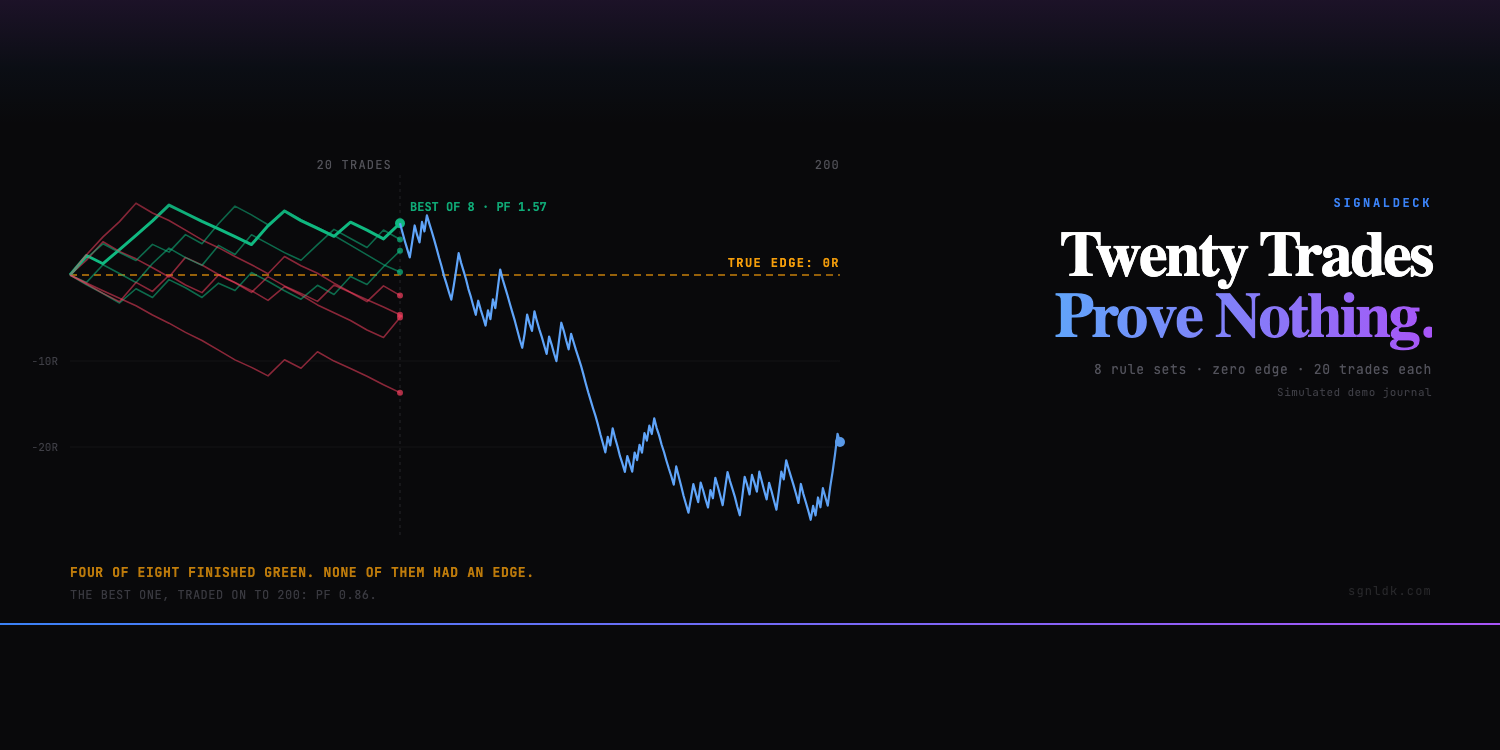
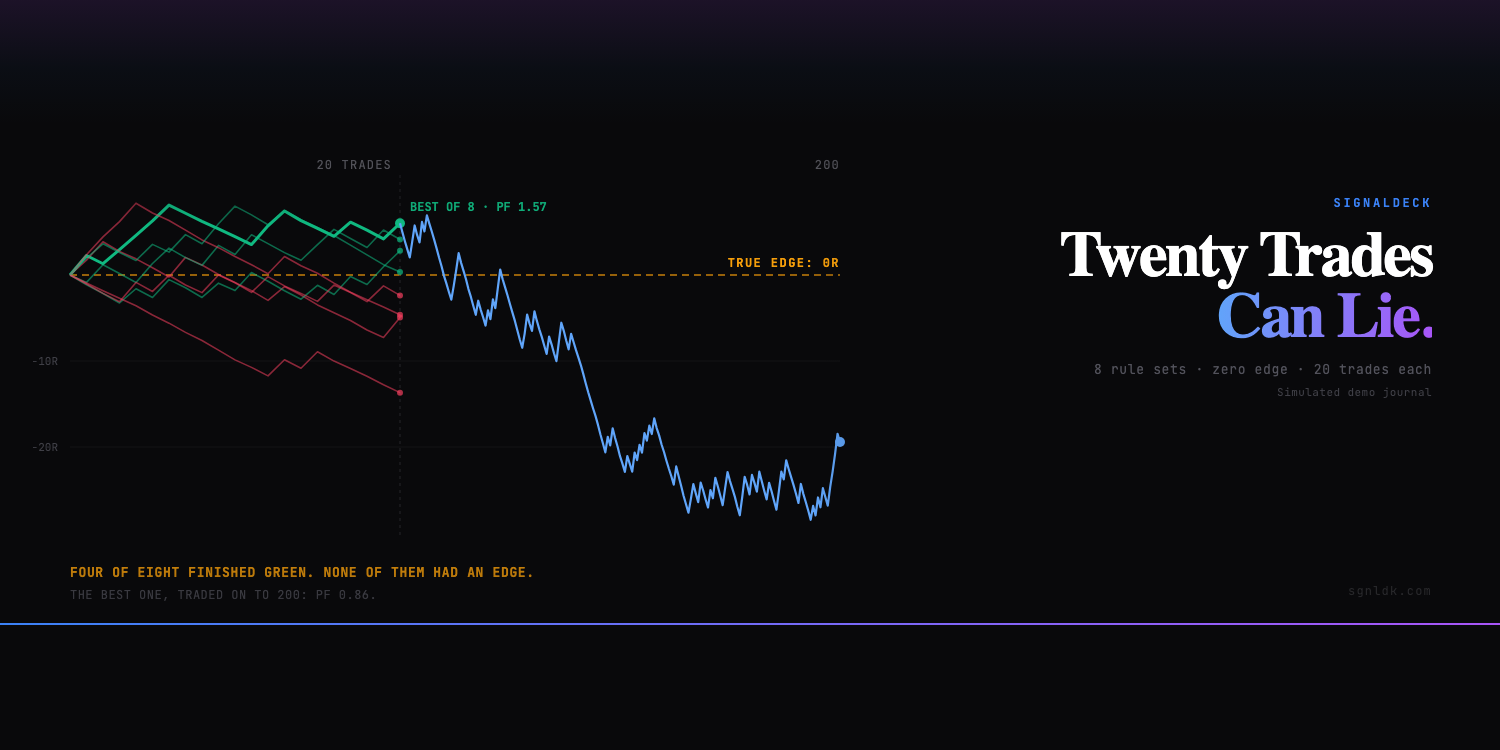
blog: how-many-trades-to-trust-a-strategy - Codex review fixes (2 blockers, 8 should-fix)
Power column for the trades-needed table, post-selection caveat on Rule Set A's ranges,
2-SE endpoints, independence assumption, SQN qualification, softened 343-trade verdict,
model-scoped frequencies, ~$250 risk wording, CTA R claim, banner 'Can Lie'.

Changed region(s): [[0.7053, 0.368, 0.9507, 0.46]]

diff --git a/blog/how-many-trades-to-trust-a-strategy/index.html b/blog/how-many-trades-to-trust-a-strategy/index.html
@@ -77,7 +77,7 @@
             "name": "How many trades do I need to know if my trading strategy works?",
             "acceptedAnswer": {
                 "@type": "Answer",
-                "text": "It depends on how big your edge is and how much your trades vary. Roughly, N = (2 x standard deviation of R / average R) squared. For a system with a 1R stop and a 2R target (standard deviation about 1.4R), showing a +0.5R edge takes about 30 trades, +0.3R about 90, +0.2R about 200 and +0.1R about 780. Systems with bigger, rarer winners need more."
+                "text": "It depends on how big your edge is and how much your trades vary. For a system with a 1R stop and a 2R target (standard deviation about 1.4R), a strategy delivering exactly a +0.5R edge clears zero by two standard errors at about 30 trades, +0.3R at about 90, +0.2R at about 200 and +0.1R at about 780. Those are minimums: to catch a real edge about four times in five takes roughly twice as many (about 60, 170, 390 and 1,540). Systems with bigger, rarer winners usually need more."
             }
         },
         {
@@ -85,7 +85,7 @@
             "name": "Is 30 trades enough to judge a strategy?",
             "acceptedAnswer": {
                 "@type": "Answer",
-                "text": "Only if the edge is exceptional, around +0.5R a trade or more. In our test, four of eight strategies with zero edge were in profit after 20 trades, and the best showed a profit factor of 1.57. Under 30 trades, treat every statistic as a rumour."
+                "text": "Only if the edge is exceptional, around +0.5R a trade or more, and even then 30 trades catches it only about half the time. In our test, four of eight strategies with zero edge were in profit after 20 trades, and the best showed a profit factor of 1.57. Under 30 trades, treat every statistic as a rumour."
             }
         },
         {
@@ -93,7 +93,7 @@
             "name": "How do I calculate a confidence interval for my trading expectancy?",
             "acceptedAnswer": {
                 "@type": "Answer",
-                "text": "Put your R-multiples in a column. The 95% range is the average R plus or minus 2 x STDEV(R) / SQRT(COUNT(R)). If the range includes zero, you have not shown an edge yet. A 20-trade strategy averaging +0.30R with a standard deviation of 1.43R has a range of about -0.32R to +0.93R."
+                "text": "Put your R-multiples in a column. A rough 95% range is the average R plus or minus 2 x STDEV(R) / SQRT(COUNT(R)). If the range includes zero, you have not shown an edge yet. A 20-trade strategy averaging +0.30R with a standard deviation of 1.43R has a range of about -0.34R to +0.94R. The range assumes independent trades from an unchanged strategy, and it is too optimistic if you picked this strategy as the best of several."
             }
         },
         {
@@ -101,7 +101,7 @@
             "name": "Why does a strategy look great at first and then stop working?",
             "acceptedAnswer": {
                 "@type": "Answer",
-                "text": "Often it never worked. If you try several setups and keep the best-looking one, chance alone makes the best one look good. In 20,000 simulated runs of eight zero-edge strategies at 20 trades each, the best one had a profit factor of 1.5 or more 81% of the time. Traded on, it drifts back to its true edge."
+                "text": "Often it never worked. If you try several setups and keep the best-looking one, chance alone makes the best one look good. In our simulation of eight independent zero-edge strategies at 20 trades each, run 20,000 times, the best one had a profit factor of 1.5 or more 81% of the time. Traded on, it drifts back to its true edge."
             }
         },
         {
@@ -109,7 +109,7 @@
             "name": "Does SignalDeck warn about small sample sizes?",
             "acceptedAnswer": {
                 "@type": "Answer",
-                "text": "Partly. Every strategy card shows its trade count, and the Sharpe ratio is hidden below 10 closed trades or when results are too uniform for it to mean anything. Net P&L, profit factor, expectancy and win rate show on any sample, and there is no confidence range next to them yet, so read the trade count first."
+                "text": "Partly. Every strategy card shows its trade count, and the Sharpe ratio is hidden below 10 closed trades or when results are too uniform for it to mean anything. Net P&L, profit factor and win rate show on any sample, and there is no confidence range next to them yet, so read the trade count first."
             }
         }
     ]
@@ -214,13 +214,13 @@
         <div class="max-w-3xl mx-auto px-4">
 
             <h2 class="text-2xl font-bold text-white mt-12 mb-4">Eight Strategies, Zero Edge, 20 Trades Each</h2>
-            <p class="text-zinc-300 leading-relaxed mb-6">Every trade risks $250, or 1R. One in three trades wins between 1.6R and 2.4R, averaging +2R. The other two lose between 0.85R and 1.15R, averaging &minus;1R. That works out to (1/3 &times; 2) &minus; (2/3 &times; 1) = 0R per trade. This is a strategy that can never make money over time, and we gave it eight different names. We drew 20 trades for each one, logged them in a SignalDeck demo account, and opened the Strategy Performance screen.</p>
+            <p class="text-zinc-300 leading-relaxed mb-6">Every trade is measured against 1R of planned risk, about $250 in the demo account (whole-share sizing makes it vary by a few dollars). One in three trades wins between 1.6R and 2.4R, averaging +2R. The other two lose between 0.85R and 1.15R, averaging &minus;1R. That works out to (1/3 &times; 2) &minus; (2/3 &times; 1) = 0R per trade. This strategy has no positive expected return, though any finite run of it can finish up or down. We gave it eight different names. We drew 20 trades for each one, logged them in a SignalDeck demo account, and opened the Strategy Performance screen.</p>
             <figure class="my-8">
                 <a href="../../assets/screenshot-samplesize-grid-20.webp" target="_blank" rel="noopener" aria-label="Open full-size screenshot"><img src="../../assets/screenshot-samplesize-grid-20.webp" width="2512" height="1482" loading="lazy" decoding="async" alt="SignalDeck's Strategy Performance screen with eight cards, Rule Set A to Rule Set H, 20 trades each. A: net +$1,492, Sharpe 1.87, max drawdown -$1,149, profit factor 1.57. B: -$1,219, Sharpe -1.59, PF 0.68. C: +$1,019, Sharpe 1.19, PF 1.33. D: +$719, Sharpe 0.84, PF 1.23. E: -$3,418, Sharpe -6.79, PF 0.22. F: -$611, Sharpe -0.75, PF 0.83. G: -$1,179, Sharpe -1.50, PF 0.69. H: +$77, Sharpe 0.10, PF 1.02." class="w-full h-auto rounded-xl border border-zinc-800"></a>
                 <figcaption class="text-xs text-zinc-500 mt-2 text-center">Eight cards, one distribution. None of these has an edge.</figcaption>
             </figure>
             <p class="text-zinc-300 leading-relaxed mb-6">If you didn&rsquo;t know where these came from, you would read this screen as four working strategies and four broken ones. Rule Set A looks ready for more size. Rule Set E, at &minus;$3,418 and a Sharpe of &minus;6.79, looks like it should be deleted today. Both are the same strategy. E is not broken, and A is not working. E drew two winners in twenty, A drew nine, and that is all that separates them.</p>
-            <p class="text-zinc-300 leading-relaxed mb-6">This is the problem with reading performance stats on a small sample. Every number on a card can look sure of itself, but at 20 trades none of them can tell an edge from luck.</p>
+            <p class="text-zinc-300 leading-relaxed mb-6">This is the problem with reading performance stats on a small sample. Every number on a card can look sure of itself, but for a system like this one, 20 trades can&rsquo;t tell an edge from luck.</p>
 
             <h2 class="text-2xl font-bold text-white mt-12 mb-4">We Kept Trading the Winner</h2>
             <p class="text-zinc-300 leading-relaxed mb-6">Picking the best-looking strategy and trading more of it is what most of us would do next, so we did it. Here is Rule Set A after its first 20 trades:</p>
@@ -242,7 +242,7 @@
                 <li><strong class="text-white">One strategy on its own</strong> showed a profit factor of 1.5 or better after 20 trades <strong class="text-white">19% of the time</strong>. About one in five tries at a no-edge idea looks good enough to keep.</li>
                 <li><strong class="text-white">The best of eight</strong> reached a profit factor of 1.5 or better <strong class="text-white">81% of the time</strong>, and 2.0 or better 42% of the time. The median best-of-eight had a profit factor of 1.92 and an expectancy of +0.47R a trade.</li>
             </ul>
-            <p class="text-zinc-300 leading-relaxed mb-6">So our Rule Set A, at 1.57, was a mild result. If you try eight setups and keep the best one, the usual outcome is a profit factor near 2 from a strategy with no edge at all. The more ideas you test, the better the best one will look by chance alone. That is why the number of things you tried matters as much as how good the winner looks.</p>
+            <p class="text-zinc-300 leading-relaxed mb-6">So our Rule Set A, at 1.57, was a mild result. In this simulation, trying eight independent zero-edge setups and keeping the best one usually produced a profit factor near 2. Real setups are often correlated, which shrinks that effect, but it never makes it go away. The more ideas you test, the better the best one will look by chance alone. That is why the number of things you tried matters as much as how good the winner looks.</p>
 
             <h2 class="text-2xl font-bold text-white mt-12 mb-4">The One Formula That Answers the Question</h2>
             <p class="text-zinc-300 leading-relaxed mb-6">Measure every trade in <a href="../what-is-r-multiple/" class="text-blue-400 hover:text-blue-300 transition-colors">R-multiples</a>. Your <a href="../trading-expectancy/" class="text-blue-400 hover:text-blue-300 transition-colors">expectancy</a> is the average R. How far you can trust that average depends on two things: how much your trades vary, and how many you have.</p>
@@ -250,24 +250,25 @@
                 standard error = StdDev(R) &divide; &radic;N<br>
                 95% range &asymp; average R &plusmn; 2 &times; standard error
             </div>
-            <p class="text-zinc-300 leading-relaxed mb-6">In a spreadsheet with your R-multiples in column R, that is <code class="text-blue-300 bg-zinc-900 px-1 rounded">=AVERAGE(R:R)</code> plus or minus <code class="text-blue-300 bg-zinc-900 px-1 rounded">=2*STDEV(R:R)/SQRT(COUNT(R:R))</code>. If the range includes zero, you haven&rsquo;t shown an edge yet.</p>
-            <p class="text-zinc-300 leading-relaxed mb-6">Rule Set A at 20 trades averaged +0.30R with a standard deviation of 1.43R. The standard error is 1.43 &divide; &radic;20 = 0.32R, so the 95% range runs from about <strong class="text-white">&minus;0.32R to +0.93R a trade</strong>. That covers zero, a decent edge and a spectacular one. At 200 trades the range narrows to about <strong class="text-white">&minus;0.29R to +0.09R</strong>, which still includes zero (the true answer) and now rules out the big edge the first 20 trades seemed to show.</p>
-            <p class="text-zinc-300 leading-relaxed mb-6">Turn the formula around and you get the number of trades you need. For the range to clear zero, your average has to be about twice its standard error, so N &asymp; (2 &times; StdDev &divide; edge)&sup2;. A system with a 1R stop and a 2R target has a standard deviation around 1.4R. For that system:</p>
+            <p class="text-zinc-300 leading-relaxed mb-6">In a spreadsheet with your R-multiples in column R, that is <code class="text-blue-300 bg-zinc-900 px-1 rounded">=AVERAGE(R:R)</code> plus or minus <code class="text-blue-300 bg-zinc-900 px-1 rounded">=2*STDEV(R:R)/SQRT(COUNT(R:R))</code>. If the range includes zero, you haven&rsquo;t shown an edge yet. This is a rough guide: it assumes your trades are independent and the strategy hasn&rsquo;t changed, and it gets less reliable on small, lopsided samples.</p>
+            <p class="text-zinc-300 leading-relaxed mb-6">Rule Set A at 20 trades averaged +0.30R with a standard deviation of 1.43R. The standard error is 1.43 &divide; &radic;20 = 0.32R, so the range runs from about <strong class="text-white">&minus;0.34R to +0.94R a trade</strong>. That covers zero, a decent edge and a spectacular one. At 200 trades it narrows to about <strong class="text-white">&minus;0.29R to +0.10R</strong>, which still includes zero (the true answer) and now rules out the big edge the first 20 trades seemed to show.</p>
+            <p class="text-zinc-300 leading-relaxed mb-6">Turn the formula around and you get a sample size. A system with a 1R stop and a 2R target has a standard deviation around 1.4R. The first column below is the point where a strategy that delivers exactly its true edge would clear zero by two standard errors: N &asymp; (2 &times; StdDev &divide; edge)&sup2;. That is a minimum, not a guarantee. Results scatter around the true edge, so at that count a real edge clears the bar only about half the time. The second column is the count where it clears the bar about four times in five.</p>
             <div class="my-8 overflow-x-auto rounded-xl border border-zinc-800">
                 <table class="w-full text-sm">
                     <thead>
-                        <tr class="bg-zinc-800 text-xs uppercase tracking-wider text-zinc-400"><th class="px-4 py-3 text-left font-semibold">True edge per trade</th><th class="px-4 py-3 text-right font-semibold">Trades needed to show it (about)</th></tr>
+                        <tr class="bg-zinc-800 text-xs uppercase tracking-wider text-zinc-400"><th class="px-4 py-3 text-left font-semibold">True edge per trade</th><th class="px-4 py-3 text-right font-semibold">Clears zero on average</th><th class="px-4 py-3 text-right font-semibold">Clears zero 4 times in 5</th></tr>
                     </thead>
                     <tbody class="text-zinc-300">
-                        <tr class="border-t border-zinc-800"><td class="px-4 py-3">+0.5R (exceptional)</td><td class="px-4 py-3 text-right">30</td></tr>
-                        <tr class="border-t border-zinc-800"><td class="px-4 py-3">+0.3R</td><td class="px-4 py-3 text-right">90</td></tr>
-                        <tr class="border-t border-zinc-800"><td class="px-4 py-3">+0.2R</td><td class="px-4 py-3 text-right">200</td></tr>
-                        <tr class="border-t border-zinc-800"><td class="px-4 py-3">+0.1R</td><td class="px-4 py-3 text-right">780</td></tr>
+                        <tr class="border-t border-zinc-800"><td class="px-4 py-3">+0.5R (exceptional)</td><td class="px-4 py-3 text-right">30</td><td class="px-4 py-3 text-right">60</td></tr>
+                        <tr class="border-t border-zinc-800"><td class="px-4 py-3">+0.3R</td><td class="px-4 py-3 text-right">90</td><td class="px-4 py-3 text-right">170</td></tr>
+                        <tr class="border-t border-zinc-800"><td class="px-4 py-3">+0.2R</td><td class="px-4 py-3 text-right">200</td><td class="px-4 py-3 text-right">390</td></tr>
+                        <tr class="border-t border-zinc-800"><td class="px-4 py-3">+0.1R</td><td class="px-4 py-3 text-right">780</td><td class="px-4 py-3 text-right">1,540</td></tr>
                     </tbody>
                 </table>
             </div>
-            <p class="text-zinc-300 leading-relaxed mb-6">Two things follow from this table. Smaller edges need many more trades, because halving the edge quadruples the sample. And a system with bigger, rarer winners has a larger standard deviation, so it needs more trades than this table shows. A trend-following system that wins one trade in five has to be judged over hundreds of trades, not dozens.</p>
-            <p class="text-zinc-300 leading-relaxed mb-6">If this ratio looks familiar, it is because <a href="../how-to-calculate-sqn-score/" class="text-blue-400 hover:text-blue-300 transition-colors">SQN</a> is built from it: &radic;N &times; average R &divide; StdDev(R) is the same &ldquo;average divided by its standard error.&rdquo; An SQN above 2 is roughly the point where the 95% range stops including zero.</p>
+            <p class="text-zinc-500 text-sm leading-relaxed mb-6">Approximate trade counts, assuming a standard deviation of 1.4R and independent trades. The second column is the standard 80%-power sample size at a 5% significance level. Neither column accounts for picking the best of several strategies, which needs more.</p>
+            <p class="text-zinc-300 leading-relaxed mb-6">Two things follow from this table. Smaller edges need many more trades, because halving the edge quadruples the sample. And the count depends on how much your results vary, not just on win rate. A system whose profit comes from rare, large winners usually has a bigger standard deviation, so it often needs hundreds of trades rather than dozens.</p>
+            <p class="text-zinc-300 leading-relaxed mb-6">If this ratio looks familiar, it is because <a href="../how-to-calculate-sqn-score/" class="text-blue-400 hover:text-blue-300 transition-colors">SQN</a> is built from it: &radic;N &times; average R &divide; StdDev(R) is the same &ldquo;average divided by its standard error&rdquo; (before SQN&rsquo;s usual cap at 100 trades). An uncapped SQN above 2 is roughly where that range stops including zero. Like every other statistic here, it carries no adjustment for how many strategies you tried before this one.</p>
 
             <h2 class="text-2xl font-bold text-white mt-12 mb-4">Win Rate and Profit Factor Are Just as Shaky</h2>
             <p class="text-zinc-300 leading-relaxed mb-6">The same small-sample problem applies to every number on the card, including the two that traders quote most.</p>
@@ -277,13 +278,13 @@
                         <tr class="bg-zinc-800 text-xs uppercase tracking-wider text-zinc-400"><th class="px-4 py-3 text-left font-semibold">Rule Set A</th><th class="px-4 py-3 text-right font-semibold">After 20 trades</th><th class="px-4 py-3 text-right font-semibold">After 200 trades</th><th class="px-4 py-3 text-right font-semibold">True value</th></tr>
                     </thead>
                     <tbody class="text-zinc-300">
-                        <tr class="border-t border-zinc-800"><td class="px-4 py-3">Expectancy</td><td class="px-4 py-3 text-right">+0.30R<br><span class="text-xs text-zinc-500">&minus;0.32 to +0.93</span></td><td class="px-4 py-3 text-right">&minus;0.10R<br><span class="text-xs text-zinc-500">&minus;0.29 to +0.09</span></td><td class="px-4 py-3 text-right">0R</td></tr>
+                        <tr class="border-t border-zinc-800"><td class="px-4 py-3">Expectancy</td><td class="px-4 py-3 text-right">+0.30R<br><span class="text-xs text-zinc-500">&minus;0.34 to +0.94</span></td><td class="px-4 py-3 text-right">&minus;0.10R<br><span class="text-xs text-zinc-500">&minus;0.29 to +0.10</span></td><td class="px-4 py-3 text-right">0R</td></tr>
                         <tr class="border-t border-zinc-800"><td class="px-4 py-3">Win rate</td><td class="px-4 py-3 text-right">45%<br><span class="text-xs text-zinc-500">26% to 66%</span></td><td class="px-4 py-3 text-right">30%<br><span class="text-xs text-zinc-500">24% to 37%</span></td><td class="px-4 py-3 text-right">33%</td></tr>
                         <tr class="border-t border-zinc-800"><td class="px-4 py-3">Profit factor</td><td class="px-4 py-3 text-right">1.58<br><span class="text-xs text-zinc-500">0.61 to 3.84</span></td><td class="px-4 py-3 text-right">0.86<br><span class="text-xs text-zinc-500">0.62 to 1.15</span></td><td class="px-4 py-3 text-right">1.0</td></tr>
                     </tbody>
                 </table>
             </div>
-            <p class="text-zinc-500 text-sm leading-relaxed mb-6">95% ranges. Expectancy from the standard error, win rate from the Wilson interval, profit factor from 20,000 bootstrap resamples of the trades. Figures are computed from the simulated R-multiples. The app rounds through dollar fills, so its card shows 1.57 where the raw R gives 1.58.</p>
+            <p class="text-zinc-500 text-sm leading-relaxed mb-6">Approximate 95% ranges, unadjusted. Expectancy is the average &plusmn; 2 standard errors, win rate uses the Wilson interval, and profit factor comes from 20,000 bootstrap resamples of the trades. Rule Set A was picked as the best of eight, and these ranges ignore that, so its 20-trade ranges are too optimistic. The honest test of a strategy you picked is fresh trades after you picked it, which is what the next 180 trades were. Figures are computed from the simulated R-multiples. The app rounds through dollar fills, so its card shows 1.57 where the raw R gives 1.58.</p>
             <p class="text-zinc-300 leading-relaxed mb-6">A 45% win rate on 20 trades is consistent with anything from about one win in four to two wins in three. A profit factor of 1.58 on 20 trades is consistent with a strategy that wins back only 61 cents for every dollar it loses, and with one that makes almost four dollars for every dollar lost. <a href="../why-win-rate-is-lying/" class="text-blue-400 hover:text-blue-300 transition-colors">Win rate has other problems too</a>, but sample size comes first. Profit factor also has a failure of its own: with no losing trades it is undefined, and many tools show it as infinite. Three wins in a row shows as the best profit factor possible.</p>
 
             <h2 class="text-2xl font-bold text-white mt-12 mb-4">A Real Edge Can Look Broken Too</h2>
@@ -301,8 +302,8 @@
                     </tbody>
                 </table>
             </div>
-            <p class="text-zinc-300 leading-relaxed mb-6">One trader in four with a genuinely good strategy is down after 20 trades. If they quit and switch setups, they throw away the edge they were looking for. Rule Set E in the screenshot shows the same thing from the other side. It had zero edge, not a negative one, and still looked like a disaster at 20 trades.</p>
-            <p class="text-zinc-300 leading-relaxed mb-6">A long losing record is different. When our founder&rsquo;s flagship strategy lost money with a profit factor of 0.85 over 343 trades (<a href="../why-journal-trades/" class="text-blue-400 hover:text-blue-300 transition-colors">the full story is here</a>), the verdict was believable because of the 343, not because of the 0.85. The same ratio on 20 trades would have meant nothing.</p>
+            <p class="text-zinc-300 leading-relaxed mb-6">Under this +0.2R model, about one 20-trade run in four finishes down. If they quit and switch setups, they throw away the edge they were looking for. Rule Set E in the screenshot shows the same thing from the other side. It had zero edge, not a negative one, and still looked like a disaster at 20 trades.</p>
+            <p class="text-zinc-300 leading-relaxed mb-6">A long losing record is different. When our founder&rsquo;s flagship strategy lost money with a profit factor of 0.85 over 343 trades (<a href="../why-journal-trades/" class="text-blue-400 hover:text-blue-300 transition-colors">the full story is here</a>), the 343 is what made it worth acting on. On its own, a profit factor of 0.85 over 343 trades is a strong warning rather than proof, since whether the range clears zero depends on how much those trades varied. The same ratio on 20 trades would have meant almost nothing.</p>
 
             <h2 class="text-2xl font-bold text-white mt-12 mb-4">Rules You Can Actually Use</h2>
             <ul class="list-disc pl-6 space-y-3 text-zinc-300 mb-6">
@@ -317,29 +318,29 @@
             <h2 class="text-2xl font-bold text-white mt-12 mb-4">What SignalDeck Shows, and What It Doesn&rsquo;t</h2>
             <p class="text-zinc-300 leading-relaxed mb-6">Every card on the Strategy Performance screen puts the trade count next to the strategy name. When we covered our founder&rsquo;s live-stream scoreboard in August, the app would show a Sharpe ratio calculated on three trades. That has since changed. SignalDeck now hides Sharpe (it shows a dash) when a strategy has fewer than 10 closed trades, or when its results are so uniform that the ratio stops meaning anything. Profit factor shows as &infin; when there are no losing trades.</p>
             <p class="text-zinc-300 leading-relaxed mb-6">Net P&amp;L, profit factor, expectancy and win rate still show on any sample, including a single trade, and SignalDeck doesn&rsquo;t yet show a confidence range next to them. Until it does, the trade count on the card is your guard. The formula above takes a minute in a spreadsheet, using the R-multiple column in SignalDeck&rsquo;s trade export, or you can ask an assistant <a href="../connect-claude-chatgpt-trading-journal/" class="text-blue-400 hover:text-blue-300 transition-colors">connected to your journal</a> to work it out for each strategy.</p>
-            <p class="text-zinc-500 text-sm leading-relaxed mb-6">The account is a simulated demo, not anyone&rsquo;s real trading. Each trade&rsquo;s R-multiple was drawn at random from the zero-edge distribution described above (seed fixed before the first run). Symbols, dates and prices were generated to carry those R-multiples at $250 risk a trade and are not real fills, so no trade-level screenshot is shown. Screenshots are from SignalDeck&rsquo;s current release on a local test server, November 13, 2026, unedited apart from cropping. Nothing here is a recommendation to buy or sell anything.</p>
+            <p class="text-zinc-500 text-sm leading-relaxed mb-6">The account is a simulated demo, not anyone&rsquo;s real trading. Each trade&rsquo;s R-multiple was drawn at random from the zero-edge distribution described above (seed fixed before the first run). Symbols, dates and prices were generated to carry those R-multiples at about $250 of risk a trade (whole shares) and are not real fills, so no trade-level screenshot is shown. Screenshots are from SignalDeck&rsquo;s current release on a local test server, November 13, 2026, unedited apart from cropping. Nothing here is a recommendation to buy or sell anything.</p>
 
             <div class="border-t border-zinc-800 pt-12 mt-16">
                 <h2 class="text-2xl font-bold text-white mb-8">FAQ</h2>
                 <div class="mb-8">
                     <h3 class="text-lg font-semibold text-white mb-2">How many trades do I need to know if my trading strategy works?</h3>
-                    <p class="text-zinc-400 leading-relaxed">It depends on how big your edge is and how much your trades vary. Roughly, N = (2 x standard deviation of R / average R) squared. For a system with a 1R stop and a 2R target (standard deviation about 1.4R), showing a +0.5R edge takes about 30 trades, +0.3R about 90, +0.2R about 200 and +0.1R about 780. Systems with bigger, rarer winners need more.</p>
+                    <p class="text-zinc-400 leading-relaxed">It depends on how big your edge is and how much your trades vary. For a system with a 1R stop and a 2R target (standard deviation about 1.4R), a strategy delivering exactly a +0.5R edge clears zero by two standard errors at about 30 trades, +0.3R at about 90, +0.2R at about 200 and +0.1R at about 780. Those are minimums: to catch a real edge about four times in five takes roughly twice as many (about 60, 170, 390 and 1,540). Systems with bigger, rarer winners usually need more.</p>
                 </div>
                 <div class="mb-8">
                     <h3 class="text-lg font-semibold text-white mb-2">Is 30 trades enough to judge a strategy?</h3>
-                    <p class="text-zinc-400 leading-relaxed">Only if the edge is exceptional, around +0.5R a trade or more. In our test, four of eight strategies with zero edge were in profit after 20 trades, and the best showed a profit factor of 1.57. Under 30 trades, treat every statistic as a rumour.</p>
+                    <p class="text-zinc-400 leading-relaxed">Only if the edge is exceptional, around +0.5R a trade or more, and even then 30 trades catches it only about half the time. In our test, four of eight strategies with zero edge were in profit after 20 trades, and the best showed a profit factor of 1.57. Under 30 trades, treat every statistic as a rumour.</p>
                 </div>
                 <div class="mb-8">
                     <h3 class="text-lg font-semibold text-white mb-2">How do I calculate a confidence interval for my trading expectancy?</h3>
-                    <p class="text-zinc-400 leading-relaxed">Put your R-multiples in a column. The 95% range is the average R plus or minus 2 x STDEV(R) / SQRT(COUNT(R)). If the range includes zero, you have not shown an edge yet. A 20-trade strategy averaging +0.30R with a standard deviation of 1.43R has a range of about -0.32R to +0.93R.</p>
+                    <p class="text-zinc-400 leading-relaxed">Put your R-multiples in a column. A rough 95% range is the average R plus or minus 2 x STDEV(R) / SQRT(COUNT(R)). If the range includes zero, you have not shown an edge yet. A 20-trade strategy averaging +0.30R with a standard deviation of 1.43R has a range of about -0.34R to +0.94R. The range assumes independent trades from an unchanged strategy, and it is too optimistic if you picked this strategy as the best of several.</p>
                 </div>
                 <div class="mb-8">
                     <h3 class="text-lg font-semibold text-white mb-2">Why does a strategy look great at first and then stop working?</h3>
-                    <p class="text-zinc-400 leading-relaxed">Often it never worked. If you try several setups and keep the best-looking one, chance alone makes the best one look good. In 20,000 simulated runs of eight zero-edge strategies at 20 trades each, the best one had a profit factor of 1.5 or more 81% of the time. Traded on, it drifts back to its true edge.</p>
+                    <p class="text-zinc-400 leading-relaxed">Often it never worked. If you try several setups and keep the best-looking one, chance alone makes the best one look good. In our simulation of eight independent zero-edge strategies at 20 trades each, run 20,000 times, the best one had a profit factor of 1.5 or more 81% of the time. Traded on, it drifts back to its true edge.</p>
                 </div>
                 <div class="mb-8">
                     <h3 class="text-lg font-semibold text-white mb-2">Does SignalDeck warn about small sample sizes?</h3>
-                    <p class="text-zinc-400 leading-relaxed">Partly. Every strategy card shows its trade count, and the Sharpe ratio is hidden below 10 closed trades or when results are too uniform for it to mean anything. Net P&amp;L, profit factor, expectancy and win rate show on any sample, and there is no confidence range next to them yet, so read the trade count first.</p>
+                    <p class="text-zinc-400 leading-relaxed">Partly. Every strategy card shows its trade count, and the Sharpe ratio is hidden below 10 closed trades or when results are too uniform for it to mean anything. Net P&amp;L, profit factor and win rate show on any sample, and there is no confidence range next to them yet, so read the trade count first.</p>
                 </div>
             </div>
 
@@ -352,7 +353,7 @@
                     </a>
                     <a href="../why-journal-trades/" class="block border border-zinc-800 rounded-lg p-5 hover:border-blue-500/40 transition-colors">
                         <h3 class="text-white font-semibold mb-1">Why Journal Trades at All?</h3>
-                        <p class="text-sm text-zinc-400">343 trades, PF 0.85: what a real verdict looks like.</p>
+                        <p class="text-sm text-zinc-400">343 trades at PF 0.85, and what one net number hides.</p>
                     </a>
                     <a href="../why-win-rate-is-lying/" class="block border border-zinc-800 rounded-lg p-5 hover:border-blue-500/40 transition-colors">
                         <h3 class="text-white font-semibold mb-1">Why Your Win Rate Is Lying</h3>
@@ -367,7 +368,7 @@
 
             <div class="bg-zinc-900/40 border border-zinc-800 rounded-xl p-8 text-center mt-16">
                 <h3 class="text-xl font-bold text-white mb-3">Count the trades before you trust the numbers</h3>
-                <p class="text-zinc-400 mb-6 max-w-xl mx-auto">SignalDeck scores every strategy in R and puts the trade count on every card. Free during beta; Pro is $30/mo and Elite $50/mo when billing launches.</p>
+                <p class="text-zinc-400 mb-6 max-w-xl mx-auto">SignalDeck calculates R-based statistics for every trade with a recorded stop and puts the trade count on every strategy card. Free during beta; Pro is $30/mo and Elite $50/mo when billing launches.</p>
                 <div class="flex flex-wrap gap-3 justify-center">
                     <a href="https://app.sgnldk.com"
                         target="_blank"

diff --git a/blog/why-journal-trades/index.html b/blog/why-journal-trades/index.html
@@ -297,7 +297,7 @@
                 It would be easy to end the section there, and it would be a misuse of the data. Attribution tells you which strategy produced which result. It does not tell you that the result will persist, and the three rows above have wildly different claims to being believed.
             </p>
             <p class="text-zinc-300 leading-relaxed mb-6">
-                343 trades at a profit factor of 0.85 is close to a verdict. A losing sequence that long is difficult to attribute to variance, and the correct response is to change something. 22 trades at a profit factor of 2.00 is not a verdict, it is a hint. A run of 22 results is comfortably inside the range that a strategy with no edge produces by accident, and it is worth remembering that a small sample of winners is precisely what a lucky streak looks like from the inside. What separates the two rows is the sample, not the direction: <span class="font-semibold text-white">a 343-trade record is evidence and a 22-trade record is a hint, whichever way either one points</span>. Twenty-odd losing trades can come from a strategy with no edge, or even a good one, just as easily as twenty-odd winners can come from a strategy with none.
+                343 trades at a profit factor of 0.85 is close to a verdict. A losing sequence that long is difficult to attribute to variance, and the correct response is to change something. 22 trades at a profit factor of 2.00 is not a verdict, it is a hint. A run of 22 results is comfortably inside the range that a strategy with no edge produces by accident, and it is worth remembering that a small sample of winners is precisely what a lucky streak looks like from the inside. What separates the two rows is the sample, not the direction: <span class="font-semibold text-white">a 343-trade record is far stronger evidence than a 22-trade record, whichever way either one points</span>. Twenty-odd losing trades can come from a strategy with no edge, or even a good one, just as easily as twenty-odd winners can come from a strategy with none.
             </p>
             <p class="text-zinc-300 leading-relaxed mb-6">
                 The third row deserves the most scepticism despite having the best-looking numbers. A profit factor of 36.91 comes from an average win of $1,243 against an average loss of $25.76, over 30 trades that were all long, with an average hold of 33 days. That is not a description of a strategy with a huge edge. It is a description of a payoff profile whose losses have not happened yet: a rule set that exits losers almost immediately has, so far, never been caught in the gap-through-your-stop scenario that defines its real risk, and 30 long-only trades have not yet met a market that goes down. We are not saying it is bad. We are saying that 30 trades cannot tell you, and a number like 36.91 is a signal to check the sample rather than to allocate.

diff --git a/assets/banner-01bl-zero-edge.html b/assets/banner-01bl-zero-edge.html
@@ -24,7 +24,7 @@ body { position: relative; }
       <div style="font-family:'JetBrains Mono',monospace;font-size:12px;font-weight:700;color:#3b82f6;letter-spacing:0.22em;text-transform:uppercase;margin-bottom:14px;">SignalDeck</div>
       <div style="font-size:64px;font-weight:900;letter-spacing:-0.038em;line-height:0.95;color:#fff;margin-bottom:14px;">
         Twenty Trades<br>
-        <span style="background:linear-gradient(95deg,#60a5fa 0%,#a855f7 100%);-webkit-background-clip:text;background-clip:text;color:transparent;">Prove Nothing.</span>
+        <span style="background:linear-gradient(95deg,#60a5fa 0%,#a855f7 100%);-webkit-background-clip:text;background-clip:text;color:transparent;">Can Lie.</span>
       </div>
       <div style="font-family:'JetBrains Mono',monospace;font-size:13px;color:#52525b;letter-spacing:0.05em;margin-bottom:7px;">8 rule sets &middot; zero edge &middot; 20 trades each</div>
       <div style="font-family:'JetBrains Mono',monospace;font-size:11px;color:#3f3f46;letter-spacing:0.04em;">Simulated demo journal</div>
